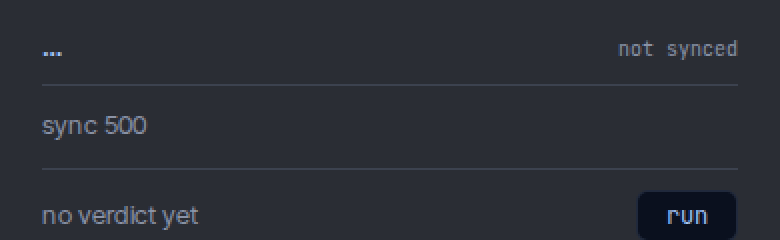
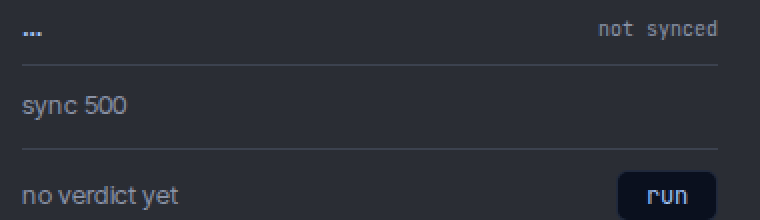
fe: the new sentence was the longest line on the page, measured
The inherited run's fix for 2026-10-26 §7.2 put a paragraph of prose
into a row that is as wide as the page, and nobody asked what width it
landed at. Counted a character at a time with L9's method, it ran 128
characters a line at tablet and desktop against the 84 of the page's own
prose two blocks above it, in the smallest type on the page. That is L9's
drift exactly, and 128 is longer than anything L10 wrote down anywhere,
including the 109 L10 called a defect shipped by a frontier lab.

38em, the same measure `.dash-empty` already carries on this page, takes
it to 81. The page's overall measure does not move: narrowing that is
L10's open proposal and the owner's call, not this run's.

Frames and crops re-shot from one clean build so the whole `after/` set
comes from the same binary.

diff --git a/ursa-major/overlay/app/dashboard/dashboard.css b/ursa-major/overlay/app/dashboard/dashboard.css
@@ -290,6 +290,17 @@
 .dash .dash-nothing {
   margin-top: 0.8rem;
   margin-bottom: 0.5rem;
+  /* The same 38em `.dash-empty` carries, and for L9's reason rather than
+     for symmetry. Without it this paragraph inherits the row's full
+     width, and the row is as wide as the page: counted a character at a
+     time at 1440 it ran 128 characters a line against the 84 of the
+     page's own prose two blocks above it, which makes the smallest type
+     on the page the longest line on it. That is the exact drift L9 was
+     written against. 38em of 0.7rem is 426px and lands at 85, so this
+     sentence now reads at the width every other sentence here reads at,
+     and nothing about the page's overall measure moved: narrowing that
+     is L10's open proposal and the owner's to decide, not this run's. */
+  max-width: 38em;
 }
 
 .dash-seg-verbatim { background: var(--polar); }
